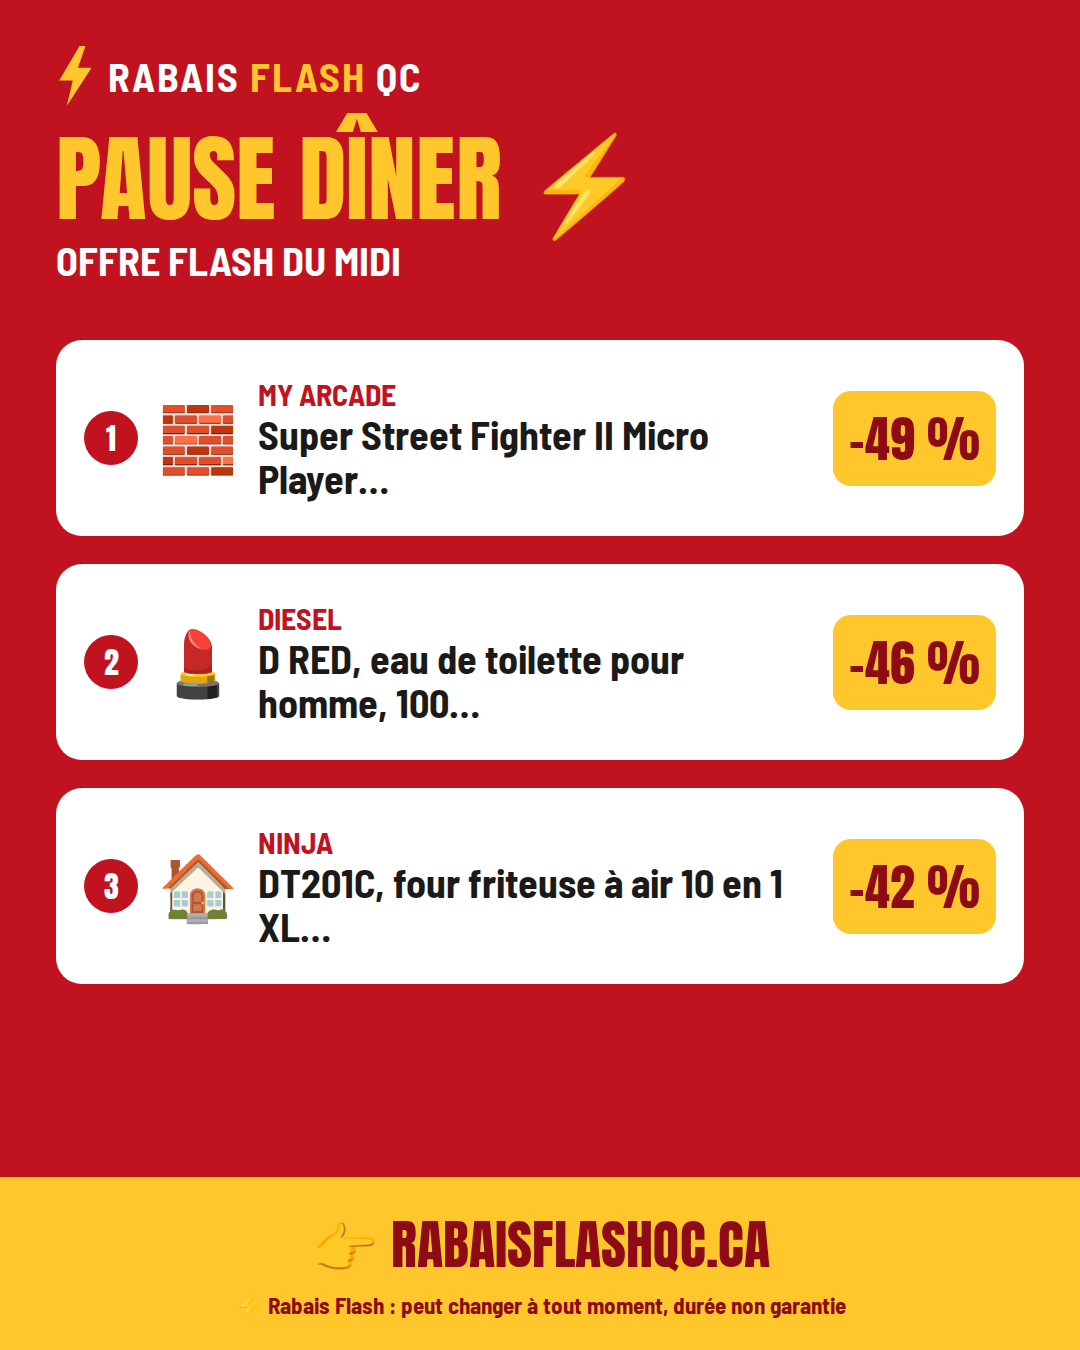
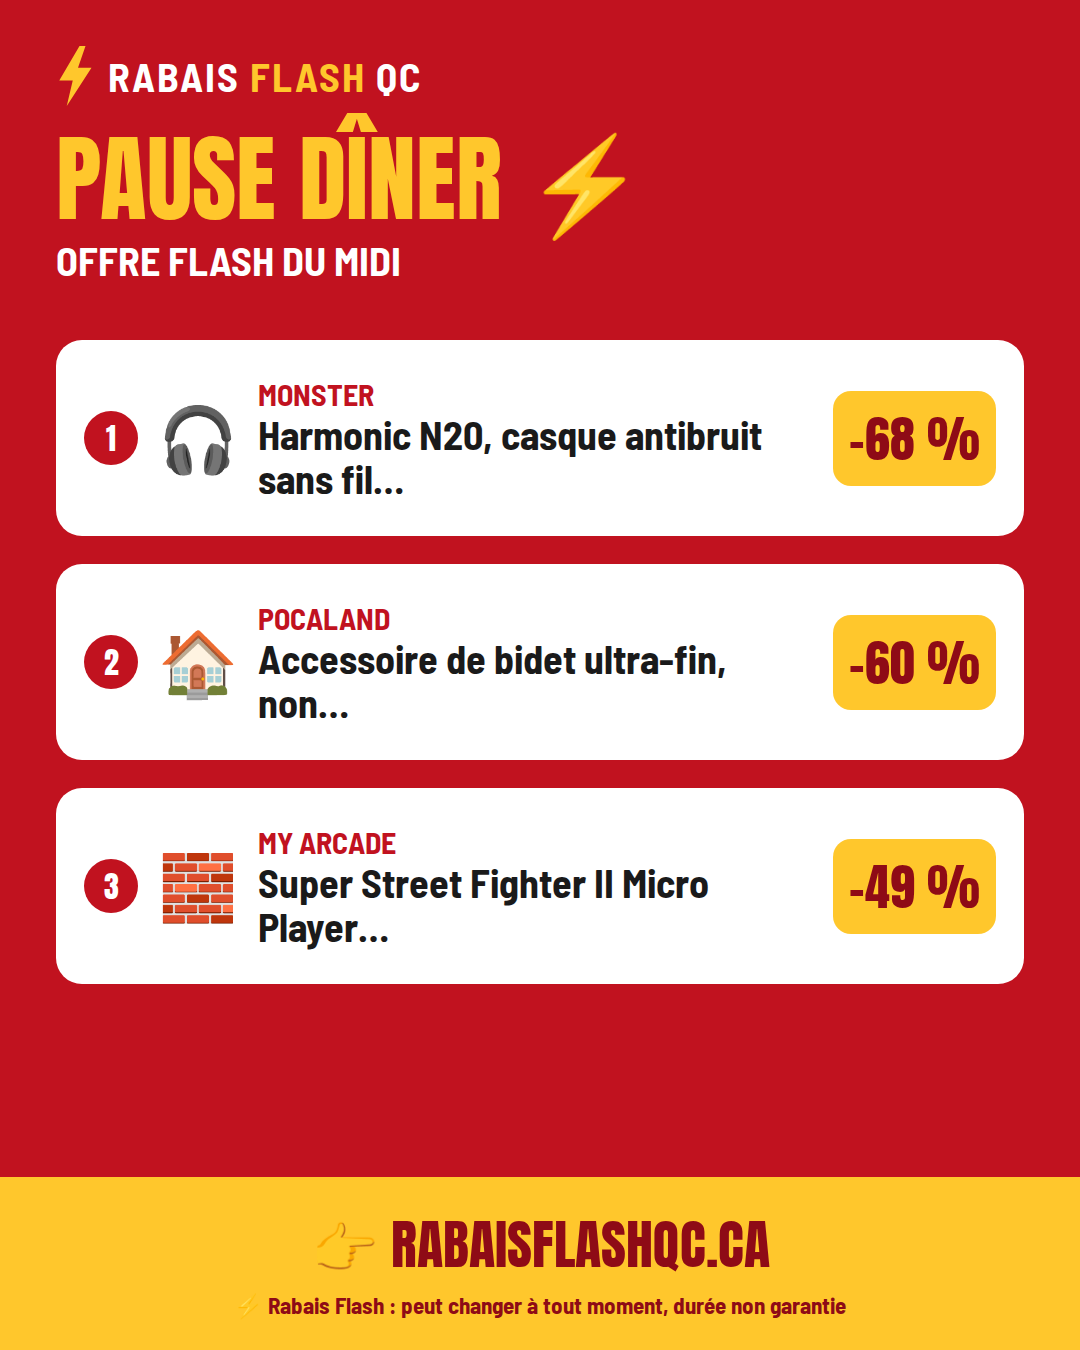
Mise à jour automatique des deals

diff --git a/docs/pack-du-jour/index.html b/docs/pack-du-jour/index.html
@@ -27,11 +27,11 @@ En tant que Partenaire Amazon, je réalise un bénéfice sur les achats rempliss
 #RabaisFlashQC #AubainesQuébec #DealsQC #Québec #Halloween</pre><button data-c="matin-t">📋 Copier le texte</button><h3>Premier commentaire à épingler</h3><pre id="matin-c">🔗 Tous les deals triés : https://rabaisflashqc.ca
 🎁 Guides cadeaux de Noël : https://rabaisflashqc.ca/idees-cadeaux/
 
-En tant que Partenaire Amazon, je réalise un bénéfice sur les achats remplissant les conditions requises.</pre><button data-c="matin-c">📋 Copier le commentaire</button></section><section class="c"><h2>🥪 Bonus du midi</h2><p class="m">Préparé le 2026-10-22 11:56 (heure du Québec)</p><img src="midi.png?v=202610221156" alt="Image du post"><p><a class="btn" href="midi.png?v=202610221156" download>⬇ Télécharger l'image</a></p><h3>Texte du post</h3><pre id="midi-t">🕛 Midi, l&#x27;heure des bonnes affaires :
+En tant que Partenaire Amazon, je réalise un bénéfice sur les achats remplissant les conditions requises.</pre><button data-c="matin-c">📋 Copier le commentaire</button></section><section class="c"><h2>🥪 Bonus du midi</h2><p class="m">Préparé le 2026-10-23 11:23 (heure du Québec)</p><img src="midi.png?v=202610231123" alt="Image du post"><p><a class="btn" href="midi.png?v=202610231123" download>⬇ Télécharger l'image</a></p><h3>Texte du post</h3><pre id="midi-t">🥪 Pause dîner? Voici un petit rabais à croquer :
 
+🎧 Monster : Harmonic N20, casque antibruit sans fil… (-68 %)
+🏠 POCALAND : Accessoire de bidet ultra-fin, non… (-60 %)
 🧱 My Arcade : Super Street Fighter II Micro Player Pro,… (-49 %)
-💄 Diesel : D RED, eau de toilette pour homme, 100 ml (-46 %)
-🏠 Ninja : DT201C, four friteuse à air 10 en 1 XL Pro,… (-42 %)
 
 👉 Tous les deals triés, sans chercher : https://rabaisflashqc.ca
 
